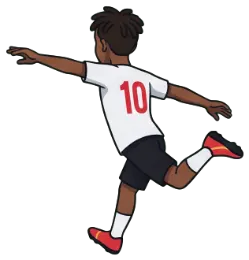
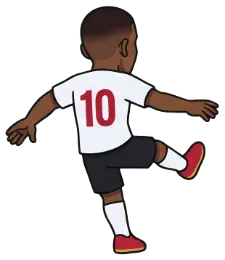
Play Penalty: aim anywhere on the goal, spell trail, wind and spells; Ten's new kicker sheet
Owner: 'the controls dont feel fluid enough, ball direction seems limited',
'the fiery trail is too much, give me something wizardry', 'more game
mechanics to make the penalty crazier', and Ten's new kicker sheet.
- Direction: the computer, for-fun and challenge flows were sending only the
  zone, so the ball flew to one of six fixed points; every flow now flies to
  your real aim with your curl.
- Aim: the swipe, scaled from the ball, lands on a point of the goal mouth -
  any width, any height. A long swipe fires as it crosses, without waiting
  for the lift.
- Trail: star motes spiral off the ball's path in gold, red and white; a
  summoning circle flares on the spot at the strike. Fire removed.
- Solo modes (computer, Sudden Death, for fun): wind that carries the ball,
  and a spell meter charged by goals and style; full, CAST makes the next
  shot SPELLBOUND - a rune ring holds the keeper and he dives too late.
  Challenges and the daily stay plain (server-judged).
- Ten's kicker: new sheet, matching his face and fade, no ball drawn in.

Changed region(s): [[0.0, 0.0, 0.9956, 0.9846]]

diff --git a/public/penalty.html b/public/penalty.html
@@ -116,6 +116,18 @@ svg.layer{position:absolute;inset:0;width:100%;height:100%;overflow:visible;poin
 #pts{position:absolute;left:0;right:0;top:57%;text-align:center;font:italic 800 18px/1 "Roboto Condensed",sans-serif;letter-spacing:.06em;color:var(--gold);text-shadow:0 2px 10px #000;opacity:0;pointer-events:none;z-index:7}
 #pts.go{animation:pw-pts 1.4s cubic-bezier(.2,.9,.25,1)}
 @keyframes pw-pts{0%{opacity:0;transform:translateY(14px) scale(.8)}18%{opacity:1;transform:translateY(0) scale(1.08)}70%{opacity:1;transform:translateY(-10px) scale(1)}100%{opacity:0;transform:translateY(-24px) scale(1)}}
+#wind{position:absolute;left:12px;top:calc(86px + env(safe-area-inset-top));font:italic 800 12px/1 "Roboto Condensed",sans-serif;letter-spacing:.12em;color:var(--soft);z-index:6;pointer-events:none}
+#spellbox{position:absolute;right:12px;top:calc(84px + env(safe-area-inset-top));display:flex;align-items:center;gap:6px;z-index:6;pointer-events:none}
+#spellbox span{font:italic 800 11px/1 "Roboto Condensed",sans-serif;letter-spacing:.14em;color:var(--gold)}
+#spellbox b{position:relative;width:64px;height:7px;border-radius:99px;background:#ffffff1a;overflow:hidden}
+#spellbox i{position:absolute;inset:0;background:linear-gradient(90deg,var(--red),var(--gold));transform-origin:0 50%;transform:scaleX(0);transition:transform .4s cubic-bezier(.2,.9,.25,1)}
+#cast{position:absolute;right:14px;bottom:calc(18% + env(safe-area-inset-bottom));z-index:7;height:46px;padding:0 18px;border-radius:99px;border:1px solid var(--gold);background:radial-gradient(circle at 30% 30%,#3a2a10,#0d0d0f);color:var(--gold);font:italic 800 15px/1 "Roboto Condensed",sans-serif;letter-spacing:.16em;box-shadow:0 0 0 0 #f2b84b88;animation:pw-castpulse 1.4s ease-out infinite;cursor:pointer}
+#cast.armed{background:var(--gold);color:#0d0d0f;animation:none;box-shadow:0 0 24px #f2b84b}
+@keyframes pw-castpulse{0%{box-shadow:0 0 0 0 #f2b84b88}100%{box-shadow:0 0 0 16px #f2b84b00}}
+#runes{position:absolute;left:0;top:0;border-radius:50%;border:2px dashed var(--gold);box-shadow:0 0 18px #f2b84b88,inset 0 0 14px #e6394688;opacity:0;pointer-events:none;z-index:4}
+#runes:after{content:"";position:absolute;inset:14%;border-radius:50%;border:1.5px solid #E63946;opacity:.8}
+#runes.on{opacity:1;animation:pw-runespin 3s linear infinite}
+@keyframes pw-runespin{to{transform:rotate(1turn)}}
 #flash{position:absolute;inset:0;background:#fff;opacity:0;pointer-events:none;z-index:8}
 /* bottom sheet (menus, results) */
 #sheet{position:absolute;left:0;right:0;bottom:0;background:var(--card);border-top:1px solid var(--line);border-radius:22px 22px 0 0;padding:18px 16px calc(18px + env(safe-area-inset-bottom));transform:translateY(105%);transition:transform .45s cubic-bezier(.2,.9,.25,1);z-index:9;max-height:85%;overflow:auto;box-shadow:0 -20px 50px #000a}
@@ -173,6 +185,10 @@ input.name{width:100%;height:50px;border-radius:999px;border:1px solid var(--lin
     <div class="zones" id="zones"><button data-s="3" aria-label="Top left"></button><button data-s="4" aria-label="Top middle"></button><button data-s="5" aria-label="Top right"></button><button data-s="0" aria-label="Bottom left"></button><button data-s="1" aria-label="Bottom middle"></button><button data-s="2" aria-label="Bottom right"></button></div>
   </div>
   <svg class="layer" id="bolt" style="z-index:8"></svg>
+  <div id="wind" hidden>CALM</div>
+  <div id="spellbox" hidden><span>SPELL</span><b><i></i></b></div>
+  <button id="cast" type="button" hidden>CAST</button>
+  <div id="runes"></div>
   <div id="hud"><div class="sboard"><div class="srow" id="rowA"><span class="who" id="whoA">YOU</span><span class="kicks" id="kA"></span><b id="scA">0</b></div><div class="srow" id="rowB"><span class="who" id="whoB">CPU</span><span class="kicks" id="kB"></span><b id="scB">0</b></div></div></div>
   <div id="tag"></div><div id="combo"></div>
   <div id="hint"></div>
@@ -448,10 +464,23 @@ function levelOf(xp){return Math.floor(Math.sqrt(Math.max(0,xp)/400))+1;}
 function trailFor(lv){var T=[{lv:1,name:"red",c:"#E63946"},{lv:3,name:"gold",c:"#F2B84B"},{lv:5,name:"electric",c:"#4FC3F7"},{lv:8,name:"white-hot",c:"#FFFFFF"}],t=T[0];
   T.forEach(function(x){if(lv>=x.lv)t=x;});return t;}
 var XP=0;try{XP=+localStorage.getItem("pw.xp")||0;}catch(e){}
-function award(o){var r=stylePoints(o),before=levelOf(XP);XP+=r.pts;try{localStorage.setItem("pw.xp",String(XP));}catch(e){}
+function award(o){var r=stylePoints(o),before=levelOf(XP);chargeSpell(34+10*r.tags.filter(function(x){return x[0]!=="x";}).length);XP+=r.pts;try{localStorage.setItem("pw.xp",String(XP));}catch(e){}
   var p=$("pts");p.textContent="+"+r.pts+(r.tags.length?"  "+r.tags.join(" · "):"");p.classList.remove("go");void p.offsetWidth;p.classList.add("go");
   var after=levelOf(XP);if(after>before){setTimeout(function(){fx.pop("LEVEL "+after+"!","#F2B84B");fx.board("LEVEL "+after,"#F2B84B");fx.flash(0.14,260);fx.buzz([30,40,60]);
     var tr=trailFor(after);if(tr.lv===after)setTimeout(function(){fx.pop(tr.name.toUpperCase()+" TRAIL","#fff");},900);},700);}}
+/* ---------------------------------------------------------------- spells & wind
+   Solo modes only (the computer, Sudden Death, for fun): a wind that carries
+   the ball, and a spell meter charged by goals and style. Full, it offers
+   CAST: the next shot is SPELLBOUND - a rune ring holds the keeper, he dives
+   too late, and anything on target goes in. Challenges and the daily stay
+   plain, because the server judges them. */
+var SOLO=false,WIND=0,SPELL=0,SPELLARMED=false,SPELLNOW=false;
+function newWind(){WIND=SOLO&&Math.random()>0.25?Math.round((Math.random()*2-1)*20):0;var w=$("wind");
+  w.hidden=!SOLO;w.textContent=WIND?"WIND "+Math.abs(WIND)+" km/h "+(WIND>0?"\u2192":"\u2190"):"CALM";}
+function drawSpell(){var b=$("spellbox");b.hidden=!SOLO;b.querySelector("i").style.transform="scaleX("+(SPELL/100)+")";
+  var c=$("cast");c.hidden=!(SOLO&&SPELL>=100);c.classList.toggle("armed",SPELLARMED);c.textContent=SPELLARMED?"SPELL READY":"CAST";}
+function chargeSpell(n){if(!SOLO||SPELLARMED)return;SPELL=Math.min(100,SPELL+n);drawSpell();if(SPELL>=100)fx.buzz([10,30,10]);}
+function consumeSpell(){if(!SPELLARMED)return false;SPELLARMED=false;SPELL=0;SPELLNOW=true;drawSpell();return true;}
 /* ---------------------------------------------------------------- board
    Every kick lands on its side's row as it is taken (playKick writes it).
    Five circles each, more appear in sudden death; single for a solo go. */
@@ -501,15 +530,25 @@ function lightning(x,y){
     if(t>170&&t<180)fx.flash(0.08,120);
     if(t>520){svg.removeChild(g);$("app").classList.remove("flashing");return false;}});
 }
-/* FIRE: embers shed behind the ball in flight - white at birth, then gold,
-   orange, red, gone - drifting up as they cool. */
-var FIRE=[];
-function fireTick(dt,bp,size,flying){
-  if(flying&&!REDUCED)for(var n=0;n<3;n++)FIRE.push({x:bp.x+(Math.random()-0.5)*size*0.5,y:bp.y+(Math.random()-0.5)*size*0.5,r:size*(0.28+Math.random()*0.2),
-    vx:(Math.random()-0.5)*20,vy:-12-Math.random()*26,life:1});
-  FIRE.forEach(function(f){f.life-=dt*2.6;f.x+=f.vx*dt;f.y+=f.vy*dt;});FIRE=FIRE.filter(function(f){return f.life>0;});
-  var s=$("fire");s.textContent="";FIRE.forEach(function(f){var L=f.life,col=L>0.8?"#FFF4C2":L>0.55?"#F2B84B":L>0.3?"#FF7A2F":"#E63946";
-    svgEl("circle",{cx:f.x.toFixed(1),cy:f.y.toFixed(1),r:(f.r*(0.4+L*0.8)).toFixed(1),fill:col,"fill-opacity":(L*0.85).toFixed(2)},s);});}
+/* THE SPELL TRAIL (owner: "the fiery trail is too much, give me something
+   wizardry"): four-point star motes shed along the ball's path, each orbiting
+   the point it was born at, twinkling gold, red and white, fading out. */
+var MOTES=[];
+function star(cx,cy,r,rot){var p=[];for(var i=0;i<8;i++){var a=rot+i*Math.PI/4,rr=i%2?r*0.32:r;p.push((cx+Math.cos(a)*rr).toFixed(1)+","+(cy+Math.sin(a)*rr).toFixed(1));}return p.join(" ");}
+function spellTick(dt,bp,size,flying){
+  if(flying&&!REDUCED)for(var n=0;n<2;n++)MOTES.push({cx:bp.x,cy:bp.y,a:Math.random()*6.3,va:(Math.random()<.5?-1:1)*(5+Math.random()*4),rad:size*0.2,vr:size*(0.9+Math.random()),
+    r:size*(0.16+Math.random()*0.14),rot:Math.random(),col:["#F2B84B","#E63946","#FFFFFF"][(Math.random()*3)|0],life:1});
+  MOTES.forEach(function(m){m.life-=dt*1.7;m.a+=m.va*dt;m.rad+=m.vr*dt;m.rot+=dt*4;});MOTES=MOTES.filter(function(m){return m.life>0;});
+  var s=$("fire");s.textContent="";MOTES.forEach(function(m){var tw=0.6+0.4*Math.sin(m.life*18+m.rot);
+    svgEl("polygon",{points:star(m.cx+Math.cos(m.a)*m.rad,m.cy+Math.sin(m.a)*m.rad*0.6,m.r*(0.5+m.life*0.7)*tw,m.rot),fill:m.col,"fill-opacity":(m.life*0.9).toFixed(2)},s);});}
+/* A summoning circle flares on the penalty spot at the strike: pitch-marking
+   rings in gold and red, opening out and fading. */
+function summon(){if(REDUCED)return;var s=$("lines"),p=P(0,0,0),g=svgEl("g",{},s),t0=performance.now();
+  var c1=svgEl("ellipse",{cx:p.x,cy:p.y,rx:0.5*p.s,ry:0.18*p.s,fill:"none",stroke:"#F2B84B","stroke-width":2.5},g),
+      c2=svgEl("ellipse",{cx:p.x,cy:p.y,rx:0.34*p.s,ry:0.12*p.s,fill:"none",stroke:"#E63946","stroke-width":1.6,"stroke-dasharray":"4 5"},g);
+  every(function(){var u=(performance.now()-t0)/620;if(u>=1){if(g.parentNode)g.parentNode.removeChild(g);return false;}
+    var k=1+u*1.6;c1.setAttribute("rx",0.5*p.s*k);c1.setAttribute("ry",0.18*p.s*k);c2.setAttribute("rx",0.34*p.s*(1+u*2.2));c2.setAttribute("ry",0.12*p.s*(1+u*2.2));
+    g.setAttribute("opacity",(1-u).toFixed(2));});}
 /* Trail: the ball's last screen positions, thinner and fainter with age. */
 var TRAIL=[],trailGold=false;
 function drawTrail(){var s=$("trail");s.textContent="";for(var i=1;i<TRAIL.length;i++){var a=TRAIL[i-1],b=TRAIL[i],f=i/TRAIL.length;
@@ -542,11 +581,16 @@ function hint(t){var h=$("hint");h.textContent="";if(t){var i=document.createEle
    same time is a hassle"). Swipe from the ball toward the goal: the direction
    is where it goes, the length how high, the speed how hard, and a bent swipe
    curls it. Same on a phone and with a mouse. Pure, so it is tested. */
-function swipeShot(path,H){
+/* THE AIM IS WHERE YOUR SWIPE POINTS ON THE GOAL (owner: "ball direction seems
+   limited"). The swipe, scaled up from the ball, lands on a point of the goal
+   mouth: any width, any height, with fine control near the posts. */
+function swipeShot(path,H,geo){
+  var G=geo||{bx:200,by:700,gx:200,gy:380,sG:45,k:2.4};
   var a=path[0],b=path[path.length-1],lift=a.y-b.y,lat=b.x-a.x,len=Math.sqrt(lift*lift+lat*lat);
   if(lift<30||len<40)return {ok:false};
   var ms=Math.max(16,b.t-a.t),power=Math.max(0,Math.min(1,(len/ms)/1.6));
-  var x=Math.max(-3.45,Math.min(3.45,(lat/lift)*5.2)),y=Math.max(0.2,Math.min(2.2,0.2+(lift/(H*0.32))*1.6));
+  var ex=G.bx+lat*G.k,ey=G.by-lift*G.k;
+  var x=Math.max(-3.5,Math.min(3.5,(ex-G.gx)/G.sG)),y=Math.max(0.15,Math.min(2.3,(G.gy-ey)/G.sG));
   /* curl follows the turn of the swipe: compare its heading at the start with
      its heading at the end - turning right curls the ball right (owner) */
   var q1=path[Math.max(1,Math.floor(path.length*0.3))],q3=path[Math.min(path.length-2,Math.floor(path.length*0.7))]||a;
@@ -557,15 +601,21 @@ function swipeShot(path,H){
 /* While the finger is down: a dotted line from the ball to where it would go,
    bent by the curl, coloured by the power - grey weak, green clean, red over. */
 function aimAndShoot(){
-  $("tag").textContent="YOUR SHOT";boardNow("a");K.idle=true;SC=ME;KC=OPP||other();hint("SWIPE THE BALL TO SHOOT");
+  $("tag").textContent="YOUR SHOT";boardNow("a");newWind();K.idle=true;SC=ME;KC=OPP||other();hint("SWIPE THE BALL TO SHOOT");
   coach("shoot","Swipe the ball toward the goal. Where you swipe is where it goes. Swipe faster to hit it harder, bend your swipe to curl it.",true);
   return new Promise(function(done){
     var app=$("app"),path=null;
     function pt(e){var a=app.getBoundingClientRect();return {x:e.clientX-a.left,y:e.clientY-a.top,t:performance.now()};}
     function down(e){var p=pt(e);if(p.y<CAM.H*0.45)return;path=[p];K.img="k-spring.webp";try{app.setPointerCapture(e.pointerId);}catch(_){}}
-    function move(e){if(!path)return;path.push(pt(e));}
-    function up(e){if(!path)return;path.push(pt(e));var g=swipeShot(path,CAM.H);path=null;if(!g.ok){K.img="k-set.webp";return;}
+    /* a long swipe strikes the moment it crosses - no waiting for the lift */
+    function move(e){if(!path)return;var p=pt(e);path.push(p);var dl=Math.hypot(p.x-path[0].x,p.y-path[0].y);if(dl>CAM.H*0.3)fire();}
+    function up(e){if(!path)return;path.push(pt(e));fire();}
+    function geo(){var bp=P(B.x,B.y,B.z),g0=P(0,0,GOAL.z);return {bx:bp.x,by:bp.y,gx:g0.x,gy:g0.y,sG:g0.s,k:(bp.y-(g0.y-1.2*g0.s))/(CAM.H*0.22)};}
+    function fire(){var g=swipeShot(path,CAM.H,geo());path=null;if(!g.ok){K.img="k-set.webp";return;}
       app.removeEventListener("pointerdown",down);app.removeEventListener("pointermove",move);app.removeEventListener("pointerup",up);
+      /* wind (solo modes): it carries the ball; the zone is judged where it ends up */
+      if(SOLO&&WIND){g.aim.x=Math.max(-3.5,Math.min(3.5,g.aim.x+WIND/20*1.1));g.curl=Math.max(-1,Math.min(1,g.curl+WIND/20*0.6));
+        g.spot=(g.aim.x<-1.22?0:g.aim.x>1.22?2:1)+(g.aim.y>=1.22?3:0);}
       hint("");fx.buzz(15);done({spot:g.spot,power:g.power,aim:g.aim,curl:g.curl});}
     app.addEventListener("pointerdown",down);app.addEventListener("pointermove",move);app.addEventListener("pointerup",up);
   });
@@ -590,14 +640,14 @@ function keeperPose(dive){
   return hi?{x:side*2.2,y:1.6,img:"k-dive-high.webp",rot:side*8,arc:0.6,flip:side}:{x:side*2.3,y:0.5,img:"k-dive-low.webp",rot:side*-6,arc:0.25,flip:side};
 }
 function resetScene(){
-  B.x=0;B.y=0.11;B.z=0;B.rot=0;B.vis=1;B.alpha=1;B.fly=false;B.att=false;FIRE=[];TRAIL=[];drawTrail();
+  B.x=0;B.y=0.11;B.z=0;B.rot=0;B.vis=1;B.alpha=1;B.fly=false;B.att=false;MOTES=[];$("runes").classList.remove("on");TRAIL=[];drawTrail();
   K.x=0;K.y=0.85;K.rot=0;K.flip=1;K.sq=1;K.img="k-set.webp";afterimage(false);S.x=-0.72;S.z=-1.25;S.img="s-stand.webp";
   fx.slowmo(false);
 }
 /* k = {who:"you"|"them", shot:{spot,kind,power?}, dive, outcome} */
 function playKick(k){
   K.idle=false;if(k.who==="you"){SC=ME;KC=OPP||other();}else{SC=OPP||other();KC=ME;}
-  var you=k.who==="you";
+  var you=k.who==="you",spell=SPELLNOW&&you;SPELLNOW=false;
   BOARD[you?"a":"b"].push(k.outcome);
   var kind=k.shot.kind,power=k.shot.power!=null?k.shot.power:(kind==="green"?0.65:kind==="weak"?0.4:0.95);
   var perfect=kind==="green"&&power>=0.72&&power<=0.82;
@@ -616,7 +666,9 @@ function playKick(k){
   /* run-up: three strides to the ball */
   S.img="s-run.webp";
   return tween(180,function(u){S.x=-0.72+0.3*u;S.z=-1.25+0.65*u;}).then(function(){
-    S.img="s-strike.webp";fx.buzz(12);hitStop=0.05;B.fly=true;if(SLOWNEXT){TS=0.38;CAM_FX.zoomTo=1.14;}
+    S.img="s-strike.webp";fx.buzz(12);hitStop=0.05;B.fly=true;summon();
+    if(spell){var rp=P(K.x,K.y,GOAL.z),rs=2.6*rp.s,rr=$("runes");rr.style.width=rr.style.height=rs+"px";rr.style.left=(rp.x-rs/2)+"px";rr.style.top=(rp.y-rs/2)+"px";rr.classList.add("on");
+      fx.pop("SPELLBOUND!","#F2B84B");fx.flash(0.1,240);}if(SLOWNEXT){TS=0.38;CAM_FX.zoomTo=1.14;}
     return new Promise(function(done){
       var t=0,phase="fly",after=0,k0={x:K.x,y:K.y},reacted=false,launched=false,landed=false,settled=false,landT=0,heldIt=false,loadT=0,fallV=0,saveAt=f.T*(kp.x===0&&kp.y<1?0.97:0.93);
       var vx=f.vx,vy=f.vy,vz=f.vz,ox=0,oy=0.11,lastHit=0;
@@ -624,7 +676,7 @@ function playKick(k){
       every(function(dt){
         t+=dt;
         /* the keeper reads it a beat late, then commits along an arc */
-        var kt=Math.max(0,Math.min(1,(t-f.T*0.12)/(f.T*0.82)));
+        var kt=Math.max(0,Math.min(1,(t-f.T*(spell?0.74:0.12))/(f.T*(spell?0.5:0.82))));
         if(kt>0&&!reacted){reacted=true;loadT=t;K.img="k-spring.webp";K.sq=1;}
         if(reacted&&!launched&&t-loadT>0.05){launched=true;K.img=kp.img;K.flip=kp.flip||1;if(kp.x!==0)afterimage(true);}
         if(launched&&(phase==="fly"||phase==="after")){
@@ -637,7 +689,7 @@ function playKick(k){
           else K.sq+=(1-K.sq)*Math.min(1,dt*8);}
         if(phase==="fly"){
           B.x=vx*t+0.5*f.ax*t*t;B.y=oy+vy*t-0.5*9.81*t*t;B.z=vz*t;B.rot+=dt*(900+power*900)*(side);
-          var bp=P(B.x,B.y,B.z);fireTick(dt,bp,Math.max(6,0.3*bp.s),true);TRAIL.push({x:bp.x,y:bp.y,w:Math.max(2,0.3*bp.s*0.5),o:1});if(TRAIL.length>16)TRAIL.shift();drawTrail();
+          var bp=P(B.x,B.y,B.z);spellTick(dt,bp,Math.max(6,0.3*bp.s),true);TRAIL.push({x:bp.x,y:bp.y,w:Math.max(2,0.3*bp.s*0.5),o:1});if(TRAIL.length>16)TRAIL.shift();drawTrail();
           if(k.outcome==="save"&&t>=saveAt){phase="after";
             var catchIt=kind==="weak"&&k.dive===k.shot.spot;impact("save",catchIt);
             /* caught: standing, the catch pose holds it; diving, the ball rides in
@@ -659,7 +711,7 @@ function playKick(k){
             if(B.y<0.11){B.y=0.11;vy=Math.abs(vy)*RESTITUTION;vx*=0.8;vz*=0.8;if(vy<0.6)vy=0;if(after-lastHit>0.08){lastHit=after;if(vy>1.2)fx.shake(0);}}
             if(k.outcome==="over")B.alpha=Math.max(0,1-after*1.6);}
           B.rot+=dt*400*side;
-          TRAIL.forEach(function(p){p.o=Math.max(0,p.o-dt*3.5);});drawTrail();fireTick(dt,null,0,false);
+          TRAIL.forEach(function(p){p.o=Math.max(0,p.o-dt*3.5);});drawTrail();spellTick(dt,null,0,false);
           if(after>1.05){done();return false;}
         }
       });
@@ -702,6 +754,8 @@ function playKick(k){
 }
 
 layout();drawBoard();
+$("cast").addEventListener("click",function(e){e.stopPropagation();if(SPELL>=100&&!SPELLARMED){SPELLARMED=true;drawSpell();fx.pop("SPELL READY","#F2B84B");fx.buzz([20,20,40]);}});
+$("cast").addEventListener("pointerdown",function(e){e.stopPropagation();});
 window.PW={RULES:{strike:strike,neighbour:neighbour,judge:judge,shootout:shootout,ZONES:ZONES,REG:REG,BONUS:BONUS},
   aimAndShoot:aimAndShoot,pickDive:pickDive,playKick:playKick,fx:fx,
   get DEV(){return DEV;},get NAME(){return NAME;},setName:function(n){NAME=n;try{localStorage.setItem("pw.name",n);}catch(e){}},
@@ -710,6 +764,7 @@ window.PW={RULES:{strike:strike,neighbour:neighbour,judge:judge,shootout:shootou
   tag:function(t){$("tag").textContent=t||"";},
   coachReset:function(){COACHED={};try{localStorage.removeItem("pw.coach");}catch(e){}},
   smartDive:smartDive,levelOf:levelOf,trailFor:trailFor,get xp(){return XP;},
+  setSolo:function(on){SOLO=!!on;SPELL=0;SPELLARMED=false;SPELLNOW=false;drawSpell();newWind();},consumeSpell:consumeSpell,
   get char(){return ME;},setChar:function(c){ME=c==="wizard"?"wizard":"ten";try{localStorage.setItem("pw.char",ME);}catch(e){}loadChar(ME);SC=ME;KC=OPP||other();},
   resetStreak:function(){streak=0;fx.combo(0);},
   setOpponent:function(c){OPP=c||null;loadChar(OPP||other());KC=OPP||other();}};
@@ -746,13 +801,13 @@ function offline(retry){
 
 /* A FULL MATCH AGAINST THE COMPUTER, NOTHING SENT ANYWHERE: shot, save, shot,
    save, sudden death, scored by the same shootout rules the server uses. */
-function practice(){PW.setOpponent(null);PW.resetStreak();var outs=[];PW.newBoard("Computer",false);
+function practice(){PW.setOpponent(null);PW.resetStreak();PW.setSolo(true);var outs=[];PW.newBoard("Computer",false);
   function cpuShot(){return {spot:Math.floor(Math.random()*6),power:0.45+Math.random()*0.5};}
   function next(){var st=R.shootout(outs);PW.setScore(st.a,st.b);if(st.done)return finish(st);
     PW.fx.slowmo(Math.floor(outs.length/2)>=REG-1);
-    if(st.next==="a")return PW.aimAndShoot().then(function(s){var d=Math.floor(Math.random()*6),o=R.judge(s,d);outs.push(o);
+    if(st.next==="a")return PW.aimAndShoot().then(function(s){var sp=PW.consumeSpell(),d=Math.floor(Math.random()*6),o=R.judge(s,d);if(sp&&o==="save")o="goal";outs.push(o);
         
-        return PW.playKick({who:"you",shot:{spot:s.spot,kind:R.strike(s.spot,s.power).kind,power:s.power},dive:d,outcome:o});}).then(next);
+        return PW.playKick({who:"you",shot:{spot:s.spot,kind:R.strike(s.spot,s.power).kind,power:s.power,aim:s.aim,curl:s.curl},dive:d,outcome:o});}).then(next);
     return PW.pickDive().then(function(dv){var cs=cpuShot(),o=R.judge(cs,dv);outs.push(o);
         return PW.playKick({who:"them",shot:{spot:cs.spot,kind:R.strike(cs.spot,cs.power).kind,power:cs.power},dive:dv,outcome:o});}).then(next);}
   function finish(st){PW.fx.slowmo(false);track("practice_finished");
@@ -808,7 +863,7 @@ function tipsCard(){var box=el("div","tips");
 
 /* THE CHALLENGER: 5 shots + 3 bonus vs a computer keeper, 5 dives + 3 bonus
    vs computer shots. Judged here (no stakes); the picks go to the server. */
-function challenger(){PW.setOpponent(null);PW.resetStreak();askName().then(function(name){
+function challenger(){PW.setOpponent(null);PW.resetStreak();PW.setSolo(false);askName().then(function(name){
   var shots=[],dives=[],outs=[],i=0,cpu=0;PW.newBoard("Computer",false);
   function cpuDive(){return Math.floor(Math.random()*6);}
   function cpuShot(){return {spot:Math.floor(Math.random()*6),power:0.45+Math.random()*0.5};}
@@ -818,7 +873,7 @@ function challenger(){PW.setOpponent(null);PW.resetStreak();askName().then(funct
     PW.fx.slowmo(n===REG-1);
     return PW.aimAndShoot().then(function(s){shots.push(s);var d=cpuDive(),o=R.judge(s,d);
       if(n<REG){outs.push(o);PW.setScore(outs.filter(function(x){return x==="goal";}).length,cpu);}
-      return PW.playKick({who:"you",shot:{spot:s.spot,kind:R.strike(s.spot,s.power).kind,power:s.power},dive:d,outcome:o});})
+      return PW.playKick({who:"you",shot:{spot:s.spot,kind:R.strike(s.spot,s.power).kind,power:s.power,aim:s.aim,curl:s.curl},dive:d,outcome:o});})
     .then(function(){return PW.pickDive();})
     .then(function(dv){dives.push(dv);var cs=cpuShot(),co=R.judge(cs,dv);if(n<REG&&co==="goal")cpu++;return PW.playKick({who:"them",shot:R.strike(cs.spot,cs.power),dive:dv,outcome:co}).then(function(){if(n<REG)PW.setScore(outs.filter(function(x){return x==="goal";}).length,cpu);});});
   });})(i);
@@ -833,7 +888,7 @@ function challenger(){PW.setOpponent(null);PW.resetStreak();askName().then(funct
 
 /* THE FRIEND: alternate shot then dive; the server judges and reveals only the
    shot just taken. A dropped connection resumes at the next kick. */
-function friend(id){PW.setOpponent(null);PW.resetStreak();api("GET","match",null,{id:id,device:PW.DEV}).then(function(r){
+function friend(id){PW.setOpponent(null);PW.resetStreak();PW.setSolo(false);api("GET","match",null,{id:id,device:PW.DEV}).then(function(r){
   if(r.status===0)return offline(function(){friend(id);});
   if(r.status!==200)return sheet([el("h2",null,"This challenge doesn't exist"),btn("Start your own","red",function(){closeSheet();challenger();})]);
   var m=r.j;track("challenge_opened");
@@ -855,7 +910,7 @@ function friend(id){PW.setOpponent(null);PW.resetStreak();api("GET","match",null
       if(x.status===409&&x.j.error==="taken")return sheet([el("h2",null,"Someone else is playing this one"),btn("Start your own","red",function(){closeSheet();challenger();})]);
       if(x.status!==200)return offline(function(){friend(id);});
       outs.push(x.j.outcome);
-      var anim=shot?PW.playKick({who:"you",shot:{spot:o.s.spot,kind:R.strike(o.s.spot,o.s.power).kind,power:o.s.power},dive:x.j.outcome==="save"?o.s.spot:(o.s.spot+3)%6,outcome:x.j.outcome})
+      var anim=shot?PW.playKick({who:"you",shot:{spot:o.s.spot,kind:R.strike(o.s.spot,o.s.power).kind,power:o.s.power,aim:o.s.aim,curl:o.s.curl},dive:x.j.outcome==="save"?o.s.spot:(o.s.spot+3)%6,outcome:x.j.outcome})
                     :PW.playKick({who:"them",shot:x.j.against,dive:o.dv,outcome:x.j.outcome});
       anim.then(function(){var st=x.j.state;PW.setScore(st.score.a,st.score.b);if(st.done){track("challenge_finished");PW.fx.slowmo(false);return result(st.score.a,st.score.b,st.winner,m.challenger,id,"friend",name);}go(name);});
     });}
@@ -875,9 +930,9 @@ function result(a,b,winner,chName,id,role,frName){
 }
 
 /* SUDDEN DEATH: you shoot until you miss; the keeper learns your habits. */
-function survival(){PW.setOpponent(null);PW.resetStreak();var run=0,best=0;try{best=+localStorage.getItem("pw.best")||0;}catch(e){}
+function survival(){PW.setOpponent(null);PW.resetStreak();PW.setSolo(true);var run=0,best=0;try{best=+localStorage.getItem("pw.best")||0;}catch(e){}
   PW.newBoard("Sudden death",true);PW.tag("SUDDEN DEATH");
-  function next(){PW.aimAndShoot().then(function(s){var d=PW.smartDive(s.spot,run,Math.random),o=R.judge(s,d);
+  function next(){PW.aimAndShoot().then(function(s){var sp=PW.consumeSpell(),d=PW.smartDive(s.spot,run,Math.random),o=R.judge(s,d);if(sp&&o==="save")o="goal";
       return PW.playKick({who:"you",shot:{spot:s.spot,kind:R.strike(s.spot,s.power).kind,power:s.power,aim:s.aim,curl:s.curl},dive:d,outcome:o}).then(function(){return o;});})
     .then(function(o){if(o==="goal"){run++;return next();}
       var nb=run>best;if(nb){best=run;try{localStorage.setItem("pw.best",String(best));}catch(e){}}track("survival_over",{run:run});
@@ -905,15 +960,15 @@ function faced(){F.sheet([F.el("h2",null,"You've faced today's keeper"),F.el("p"
   F.btn("Play again for fun","red",function(){F.closeSheet();forFun();}),F.btn("Challenge a friend","ghost",function(){F.closeSheet();F.challenger();})]);}
 /* A replay that counts for nothing: five shots against random dives, judged
    on the phone, no server, no streak. */
-function forFun(){var outs=[];PW.resetStreak();PW.newBoard("Just for fun",true);
-  function one(){PW.aimAndShoot().then(function(s){var d=Math.floor(Math.random()*6),o=R.judge(s,d);outs.push(o);
+function forFun(){var outs=[];PW.resetStreak();PW.setSolo(true);PW.newBoard("Just for fun",true);
+  function one(){PW.aimAndShoot().then(function(s){var sp=PW.consumeSpell(),d=Math.floor(Math.random()*6),o=R.judge(s,d);if(sp&&o==="save")o="goal";outs.push(o);
     PW.setScore(outs.filter(function(x){return x==="goal";}).length,outs.filter(function(x){return x!=="goal";}).length);
-    return PW.playKick({who:"you",shot:{spot:s.spot,kind:R.strike(s.spot,s.power).kind,power:s.power},dive:d,outcome:o});})
+    return PW.playKick({who:"you",shot:{spot:s.spot,kind:R.strike(s.spot,s.power).kind,power:s.power,aim:s.aim,curl:s.curl},dive:d,outcome:o});})
     .then(function(){if(outs.length<R.REG)return one();
       F.sheet([F.el("h2",null,"Just for fun: "+outs.filter(function(x){return x==="goal";}).length+"/5"),F.el("p",null,"Not counted. Tomorrow's keeper is the one that counts."),
         F.btn("Play again for fun","red",function(){F.closeSheet();forFun();}),F.btn("Challenge a friend","ghost",function(){F.closeSheet();F.challenger();})]);});}
   one();}
-function daily(){var outs=[],day=null,i=0;PW.newBoard("The Wizard",true);PW.setOpponent("wizard");PW.resetStreak();
+function daily(){var outs=[],day=null,i=0;PW.setSolo(false);PW.newBoard("The Wizard",true);PW.setOpponent("wizard");PW.resetStreak();
   function sync(st){day=st.day;i=st.at;outs=st.outcomes.slice();PW.newBoard("The Wizard",true,outs,[]);PW.setScore(outs.filter(function(o){return o==="goal";}).length,outs.filter(function(o){return o!=="goal";}).length);}
   function start(){F.api("GET","dailystate",null,{device:PW.DEV}).then(function(r){
     if(r.status!==200)return F.offline(start);
@@ -925,7 +980,7 @@ function daily(){var outs=[],day=null,i=0;PW.newBoard("The Wizard",true);PW.setO
       if(x.status===409){if(x.j.score!=null)return faced();if(x.j.at!=null){sync(x.j);return shot();}return F.offline(start);}
       if(x.status!==200)return F.offline(shot);
       day=x.j.day;outs.push(x.j.outcome);PW.setScore(outs.filter(function(o){return o==="goal";}).length,outs.filter(function(o){return o!=="goal";}).length);
-      return PW.playKick({who:"you",shot:{spot:o.s.spot,kind:R.strike(o.s.spot,o.s.power).kind,power:o.s.power},dive:x.j.outcome==="save"?o.s.spot:(o.s.spot+3)%6,outcome:x.j.outcome}).then(function(){
+      return PW.playKick({who:"you",shot:{spot:o.s.spot,kind:R.strike(o.s.spot,o.s.power).kind,power:o.s.power,aim:o.s.aim,curl:o.s.curl},dive:x.j.outcome==="save"?o.s.spot:(o.s.spot+3)%6,outcome:x.j.outcome}).then(function(){
         if(!x.j.done){i++;return shot();}
         PW.fx.slowmo(false);F.track("daily_played",{score:x.j.score});
         var n=bumpStreak(day),grid=outs.map(function(o){return o==="goal"?"⚽":"❌";}).join("");

diff --git a/test/penalty-html.test.js b/test/penalty-html.test.js
@@ -147,7 +147,7 @@ test("the daily keeper is always The Wizard", () => {
 test("lightning is yours alone, and only for a real perfect strike or a hot streak", () => {
   assert.match(html, /if\(you&&\(perfect\|\|streak>=3\)&&k\.outcome==="goal"\)lightning\(/);
   assert.doesNotMatch(html, /power=k\.shot\.power!=null\?k\.shot\.power:\(kind==="green"\?0\.72/, "a guessed power must never land in the perfect band");
-  assert.match(html, /shot:\{spot:s\.spot,kind:R\.strike\(s\.spot,s\.power\)\.kind,power:s\.power\}/, "your own shots carry their real power");
+  assert.match(html, /shot:\{spot:s\.spot,kind:R\.strike\(s\.spot,s\.power\)\.kind,power:s\.power,aim:s\.aim,curl:s\.curl\}/, "your own shots carry their real power, aim and curl");
 });
 
 test("the streak starts at zero every match", () => {
@@ -222,7 +222,7 @@ test("a longer swipe aims higher, and the aim never leaves the frame", () => {
   const short = S(swp([[200, 700], [200, 640]], 80), H), long = S(swp([[200, 700], [200, 440]], 260), H);
   assert.ok(long.aim.y > short.aim.y && long.spot >= 3 && short.spot < 3, JSON.stringify({ short, long }));
   const wild = S(swp([[200, 700], [600, 650]], 120), H);
-  assert.ok(Math.abs(wild.aim.x) <= 3.45 && wild.aim.y <= 2.25);
+  assert.ok(Math.abs(wild.aim.x) <= 3.5 && wild.aim.y <= 2.3);
 });
 
 test("swipe speed is power: a lazy swipe is weak, a wild one sails over", () => {
@@ -439,10 +439,6 @@ test("no aim arrow while you hold the ball", () => {
   assert.doesNotMatch(html, /id="guide"/);
 });
 
-test("the ball trails fire in flight", () => {
-  assert.match(html, /function fireTick\(/);
-  assert.match(grabFn("playKick"), /fireTick\(/);
-});
 
 test("a swipe that turns right curls the ball right; one that turns left, left", () => {
   const S = swipe();
@@ -474,4 +470,44 @@ test("the keeper is happy when he saves or the kicker misses: up off the floor, 
   assert.match(f, /if\(k\.outcome!=="goal"\)return wait\([^)]*\)\.then\(function\(\)\{K\.img=k\.outcome==="save"\?"k-roar\.webp":"k-taunt\.webp";/);
   assert.doesNotMatch(f, /"k-shrug\.webp"/, "no shrugging at a miss");
   assert.doesNotMatch(html, /The line turns red/, "the aim line is gone; the coach must not mention it");
+});
+
+/* Round 11, owner 8 Oct 2026: "the fiery trail is too much, give me something
+   wizardry", "the controls dont feel fluid enough, ball direction seems
+   limited", "more game mechanics to make the penalty crazier". */
+test("every flow flies the ball to your real aim with your curl, not to a spot's centre", () => {
+  assert.doesNotMatch(html, /kind:R\.strike\(s\.spot,s\.power\)\.kind,power:s\.power\}/, "a shot without aim/curl lands on a fixed spot");
+  assert.doesNotMatch(html, /kind:R\.strike\(o\.s\.spot,o\.s\.power\)\.kind,power:o\.s\.power\}/);
+  assert.match(html, /power:s\.power,aim:s\.aim,curl:s\.curl\}/);
+});
+
+test("the swipe projects to a point on the goal: the whole frame is reachable", () => {
+  const S = swipe();
+  const geo = { bx: 200, by: 700, gx: 200, gy: 380, sG: 45, k: 2.4 };
+  const top = S(swp([[200, 700], [240, 600], [270, 520]], 150), H, geo);
+  assert.ok(top.aim.x > 3 && top.aim.y > 2, "top corner: " + JSON.stringify(top.aim));
+  const low = S(swp([[200, 700], [185, 640]], 120), H, geo);
+  assert.ok(low.aim.y < 0.8 && low.aim.x < 0, "low left: " + JSON.stringify(low.aim));
+  const mid = S(swp([[200, 700], [210, 630], [215, 540]], 160), H, geo);
+  assert.ok(Math.abs(mid.aim.x) < 2 && mid.aim.y > 0.4 && mid.aim.y < 2.3, "anywhere between: " + JSON.stringify(mid.aim));
+});
+
+test("a long fast swipe fires as it crosses, without waiting for the finger to lift", () => {
+  assert.match(grabFn("aimAndShoot"), /if\(\w+>CAM\.H\*0\.3\)fire\(/);
+});
+
+test("the trail is a spell: star motes spiral round the ball's path; a summoning circle marks the strike", () => {
+  assert.doesNotMatch(html, /function fireTick\(/);
+  assert.match(html, /function spellTick\(/);
+  assert.match(grabFn("playKick"), /spellTick\(/);
+  assert.match(html, /function summon\(/);
+});
+
+test("solo modes add wind and a spell meter; challenges and the daily stay plain and fair", () => {
+  for (const f of ["practice", "survival", "forFun"]) assert.match(grabFn(f), /PW\.setSolo\(true\)/, f);
+  for (const f of ["challenger", "friend", "daily"]) assert.match(grabFn(f), /PW\.setSolo\(false\)/, f);
+  assert.match(html, /function consumeSpell\(/);
+  assert.match(html, /id="cast"/);
+  assert.match(html, /id="wind"/);
+  assert.match(grabFn("playKick"), /SPELLNOW/);
 });
